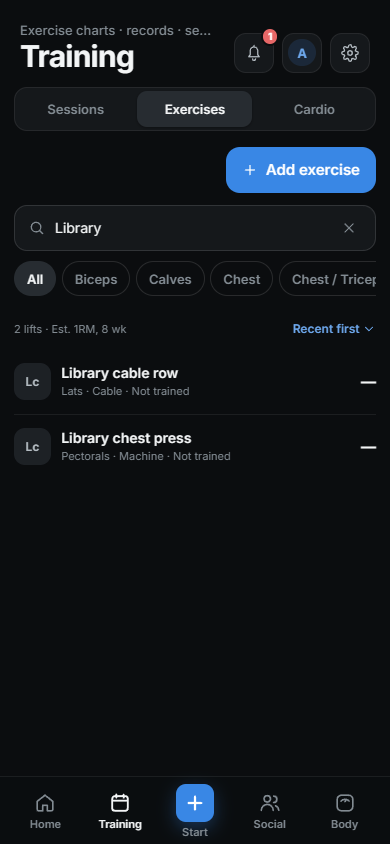
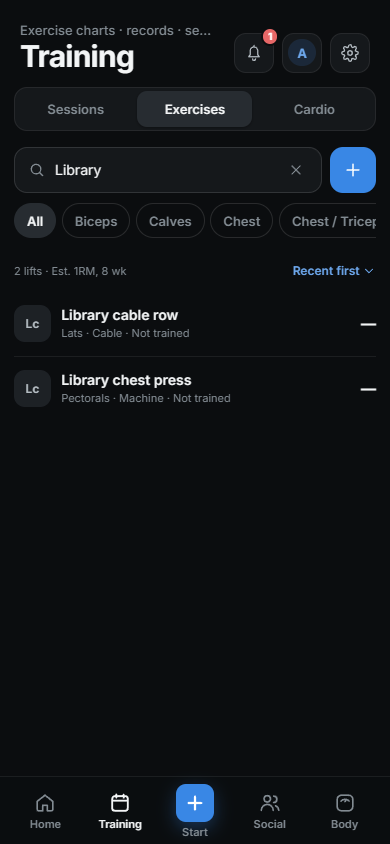
Place exercise creation beside search and the Sessions heading

diff --git a/frontend/src/App.tsx b/frontend/src/App.tsx
@@ -6138,6 +6138,7 @@ export function ProgressScreen({
   browseFirst = false,
   onOpenSettings,
   onDetailChange,
+  onCreateExercise,
 }: {
   dataRevision?: string | null;
   exercises: Exercise[];
@@ -6150,6 +6151,7 @@ export function ProgressScreen({
   browseFirst?: boolean;
   onOpenSettings?: () => void;
   onDetailChange?: (header: ExerciseDetailHeader | null) => void;
+  onCreateExercise?: () => void;
 }) {
   const weightUnit = useWeightUnit();
   const strengthExercises = useMemo(
@@ -6321,6 +6323,7 @@ export function ProgressScreen({
           <ExerciseLibraryList
             exercises={strengthExercises}
             dataRevision={dataRevision}
+            onCreate={onCreateExercise}
             onOpen={(id) => {
               libraryScroll.current = window.scrollY;
               setExerciseId(id);
@@ -8914,6 +8917,10 @@ function HistoryScreen({
   const [exerciseHeader, setExerciseHeader] = useState<ExerciseDetailHeader | null>(null);
   const [createExerciseOpen, setCreateExerciseOpen] = useState(false);
   const [createdExerciseName, setCreatedExerciseName] = useState<string | null>(null);
+  const openExerciseCreation = () => {
+    setCreatedExerciseName(null);
+    setCreateExerciseOpen(true);
+  };
   const { types } = useWorkoutTypes();
   const [openId, setOpenId] = useState<string | null>(initialOpenId);
   const [extraVisibleCount, setExtraVisibleCount] = useState(0);
@@ -9108,6 +9115,20 @@ function HistoryScreen({
                   : `${totalWorkouts} ${totalWorkouts === 1 ? 'workout' : 'workouts'} logged`
             }
             title="Training"
+            titleAction={
+              section === 'history' ? (
+                <button
+                  type="button"
+                  className="training-add-exercise"
+                  aria-label="Add exercise"
+                  title="Add exercise"
+                  aria-haspopup="dialog"
+                  onClick={openExerciseCreation}
+                >
+                  <Icon name="plus" />
+                </button>
+              ) : undefined
+            }
             onOpenSettings={onOpenSettings}
             accountActions={accountActions}
           />
@@ -9146,24 +9167,10 @@ function HistoryScreen({
               Cardio
             </button>
           </div>
-          {section !== 'cardio' && (
-            <div className="training-exercise-actions">
-              {createdExerciseName && (
-                <span role="status">{createdExerciseName} added to your library.</span>
-              )}
-              <button
-                type="button"
-                className="pulse-button primary"
-                aria-haspopup="dialog"
-                onClick={() => {
-                  setCreatedExerciseName(null);
-                  setCreateExerciseOpen(true);
-                }}
-              >
-                <Icon name="plus" />
-                Add exercise
-              </button>
-            </div>
+          {section !== 'cardio' && createdExerciseName && (
+            <p className="training-exercise-notice" role="status">
+              {createdExerciseName} added to your library.
+            </p>
           )}
         </>
       )}
@@ -9192,6 +9199,7 @@ function HistoryScreen({
             embedded
             browseFirst
             onDetailChange={setExerciseHeader}
+            onCreateExercise={openExerciseCreation}
             initialExerciseId={initialExerciseId}
             defaultExerciseId={defaultExerciseId}
             onOpenSettings={onOpenSettings}

diff --git a/frontend/src/ExerciseLibraryList.tsx b/frontend/src/ExerciseLibraryList.tsx
@@ -38,10 +38,12 @@ export function ExerciseLibraryList({
   exercises,
   dataRevision,
   onOpen,
+  onCreate,
 }: {
   exercises: Exercise[];
   dataRevision: string | null;
   onOpen: (id: string) => void;
+  onCreate?: () => void;
 }) {
   const weightUnit = useWeightUnit();
   const [query, setQuery] = useState('');
@@ -102,29 +104,43 @@ export function ExerciseLibraryList({
     });
   return (
     <section className="exercise-list-library" aria-label="Exercise library">
-      <label className="exercise-list-search">
-        <Icon name="search" />
-        <input
-          ref={input}
-          type="search"
-          aria-label="Search exercises"
-          placeholder="Search exercises"
-          value={query}
-          onChange={(event) => setQuery(event.target.value)}
-        />
-        {query && (
+      <div className="exercise-list-toolbar">
+        <label className="exercise-list-search">
+          <Icon name="search" />
+          <input
+            ref={input}
+            type="search"
+            aria-label="Search exercises"
+            placeholder="Search exercises"
+            value={query}
+            onChange={(event) => setQuery(event.target.value)}
+          />
+          {query && (
+            <button
+              type="button"
+              aria-label="Clear search"
+              onClick={() => {
+                setQuery('');
+                input.current?.focus();
+              }}
+            >
+              <Icon name="close" />
+            </button>
+          )}
+        </label>
+        {onCreate && (
           <button
             type="button"
-            aria-label="Clear search"
-            onClick={() => {
-              setQuery('');
-              input.current?.focus();
-            }}
+            className="exercise-library-add"
+            aria-label="Add exercise"
+            title="Add exercise"
+            aria-haspopup="dialog"
+            onClick={onCreate}
           >
-            <Icon name="close" />
+            <Icon name="plus" />
           </button>
         )}
-      </label>
+      </div>
       <div className="exercise-muscle-filters" role="group" aria-label="Muscle group">
         {['All', ...muscles].map((name) => (
           <button

diff --git a/frontend/src/AppExerciseCreation.test.tsx b/frontend/src/AppExerciseCreation.test.tsx
@@ -125,7 +125,14 @@ it.each(['history', 'progress'] as const)(
   'creates an exercise from %s without starting a workout',
   async (section) => {
     await render(section);
-    await click(host.querySelector('.training-exercise-actions button')!);
+    expect(host.querySelector('.training-exercise-actions')).toBeNull();
+    const shortcut = host.querySelector(
+      section === 'history'
+        ? '.page-header-title-row [aria-label="Add exercise"]'
+        : '.exercise-list-toolbar [aria-label="Add exercise"]',
+    )!;
+    expect(shortcut).not.toBeNull();
+    await click(shortcut);
     const dialog = document.querySelector<HTMLDialogElement>('.create-exercise-dialog')!;
     expect(dialog.open).toBe(true);
     await setValue(dialog.querySelector('input[placeholder="Exercise name"]')!, 'Custom press');
@@ -149,7 +156,7 @@ it.each(['history', 'progress'] as const)(
       }),
     );
     expect(document.querySelector('.create-exercise-dialog')).toBeNull();
-    expect(host.querySelector('.training-exercise-actions [role="status"]')?.textContent).toContain(
+    expect(host.querySelector('.training-exercise-notice')?.textContent).toContain(
       'Custom press added',
     );
     expect(
@@ -170,7 +177,7 @@ it.each(['history', 'progress'] as const)(
 it('cancels without a write or changing the current exercise filters', async () => {
   await render('progress');
   await setValue(host.querySelector('[aria-label="Search exercises"]')!, 'Sample');
-  await click(host.querySelector('.training-exercise-actions button')!);
+  await click(host.querySelector('.exercise-list-toolbar [aria-label="Add exercise"]')!);
   const dialog = document.querySelector('.create-exercise-dialog')!;
   await click(dialog.querySelector('.create-exercise-cancel')!);
   expect(document.querySelector('.create-exercise-dialog')).toBeNull();

diff --git a/frontend/src/exerciseList.css b/frontend/src/exerciseList.css
@@ -8,28 +8,66 @@
   margin-top: 0.75rem;
 }
 
-.training-exercise-actions {
+.page-header-title-row {
   display: flex;
   align-items: center;
-  justify-content: flex-end;
-  gap: 0.75rem;
-  margin: 0.75rem 0;
+  gap: 0.5rem;
 }
 
-.training-exercise-actions > span {
-  min-width: 0;
+.training-exercise-notice {
+  margin: 0.75rem 0;
   color: var(--p-muted);
   font-size: 0.8125rem;
   overflow-wrap: anywhere;
 }
 
-.training-exercise-actions > button {
+.exercise-list-toolbar {
+  display: flex;
+  align-items: center;
+  gap: 0.5rem;
+}
+
+.training-add-exercise,
+.exercise-library-add {
+  display: grid;
+  place-items: center;
   flex-shrink: 0;
-  width: auto;
+  width: 2.875rem;
+  height: 2.875rem;
   margin: 0;
+  border: 0;
+  border-radius: 13px;
+  padding: 0;
+  background: var(--p-accent);
+  color: #fff;
+}
+
+.training-add-exercise {
+  width: 2.25rem;
+  height: 2.25rem;
+  border-radius: 10px;
+}
+
+.training-add-exercise .pulse-icon,
+.exercise-library-add .pulse-icon {
+  width: 1.25rem;
+  height: 1.25rem;
+}
+
+.training-add-exercise:hover,
+.exercise-library-add:hover {
+  background: var(--p-accent-hover);
+}
+
+.training-add-exercise:focus-visible,
+.exercise-library-add:focus-visible {
+  outline: 2px solid var(--p-accent-text);
+  outline-offset: 3px;
 }
 .exercise-list-search {
   display: flex;
+  flex: 1;
+  min-width: 0;
   align-items: center;
   gap: 0.6rem;
   padding: 0 0.8rem;

diff --git a/frontend/src/TodayScreen.tsx b/frontend/src/TodayScreen.tsx
@@ -52,6 +52,7 @@ import { formatElapsed, useElapsedSeconds } from './elapsed';
 export function PageHeader({
   eyebrow,
   title,
+  titleAction,
   actions,
   accountActions,
   onOpenSettings,
@@ -59,6 +60,7 @@ export function PageHeader({
 }: {
   eyebrow?: string;
   title: string;
+  titleAction?: ReactNode;
   actions?: ReactNode;
   accountActions?: ReactNode;
   onOpenSettings?: () => void;
@@ -69,7 +71,14 @@ export function PageHeader({
     <header className="page-header">
       <div>
         {eyebrow && <p className="page-eyebrow">{eyebrow}</p>}
-        <Heading>{title}</Heading>
+        {titleAction ? (
+          <div className="page-header-title-row">
+            <Heading>{title}</Heading>
+            {titleAction}
+          </div>
+        ) : (
+          <Heading>{title}</Heading>
+        )}
       </div>
       {(actions || accountActions || onOpenSettings) && (
         <div className="page-header-actions">

diff --git a/docs/RELEASE-NOTES.md b/docs/RELEASE-NOTES.md
@@ -12,9 +12,9 @@ _Relay was called Gym Logger before version 1.0._
 
 _Add multiple target muscles and choose Direct (1 set) or Partial (half a set) credit for each one when creating a strength exercise. This phone-sized form uses isolated sample data._
 
-![Training's Exercises tab with Add exercise above the library and two newly created custom exercises](screenshots/releases/1.1.0-library-add-exercise.png)
+![Training's Exercises tab with a compact plus button beside exercise search and two newly created custom exercises](screenshots/releases/1.1.0-library-add-exercise.png)
 
-_Add exercise is available from Sessions and Exercises without starting a workout. The library updates after saving; this view uses isolated sample data._
+_The plus beside exercise search opens Add exercise. Sessions keeps a compact plus beside the Training heading. The library updates after saving; this view uses isolated sample data._
 
 ![Opening a preloaded profile, viewing the people behind a workout's reactions, and swiping the bottom sheet down to close it](screenshots/releases/1.1.0-profile-reactions.gif)
 
@@ -52,7 +52,7 @@ _Equipment photo opens directly to its controls in this isolated sample workout.
 
 _The exercise card ends at Add set. Set notes and workout notes remain available. Isolated sample data._
 
-- **Add exercise** is available in Training's **Sessions** and **Exercises** tabs, so you can build your exercise library without starting a workout. Use the same form to save multiple target muscles and their individual set credits; saving keeps you on the current tab.
+- Use the **+** beside **Search exercises** to add to your library without starting a workout. **Sessions** has a compact **+** beside the **Training** heading. Both open the same form for multiple target muscles and their individual credits; saving keeps you on the current tab.
 - When adding a custom strength exercise, add multiple target muscles and choose **Direct (1 set)** or **Partial (half a set)** credit separately for each muscle. Each completed working set contributes those independent credits to weekly muscle totals and the exercise's muscle help. Add or remove targets before saving; existing exercise credits stay unchanged, and cardio does not add strength sets.
 - Your profile loads quietly after sign-in and keeps its loaded workouts visible during refreshes, reducing the Loading profile screen when you open it. Cached profile content stays in memory for the signed-in account and is cleared when accounts change.
 - Tap a workout's reaction count to instantly open a bottom sheet showing who reacted and each person's emoji. Swipe down, tap Close or press Escape to dismiss it. Adding or changing your own reaction has a separate control. Reaction lists respect current workout access and exclude blocked or disabled accounts.
